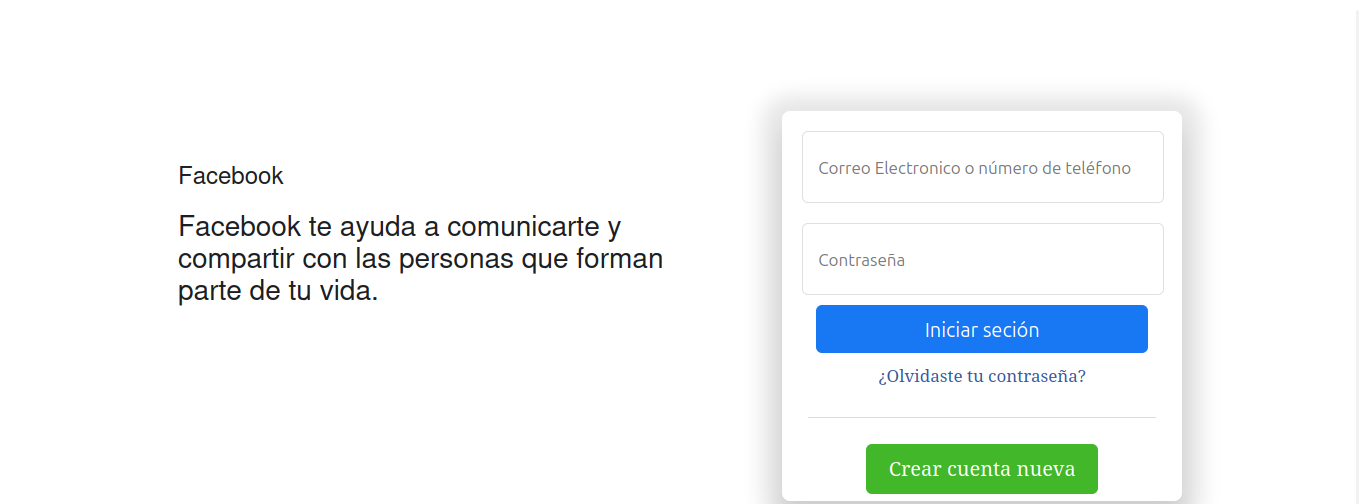
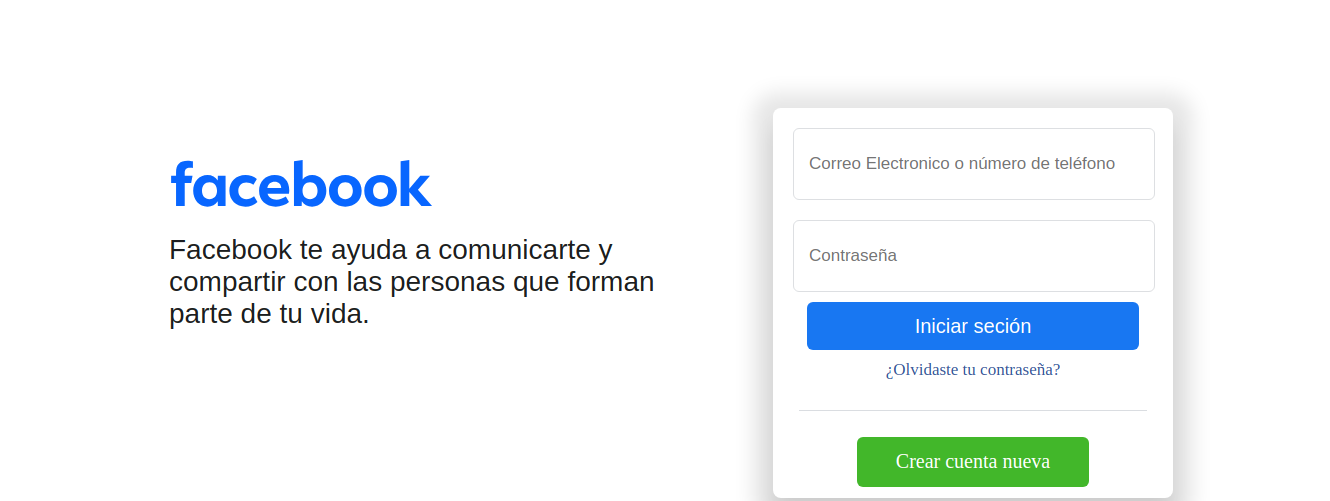
Version 1

diff --git a/Login/Formulario-1/index.html b/Login/Formulario-1/index.html
@@ -13,7 +13,7 @@
 <div class="div-container">
   <div class="div-inicio">
 	<div class="Inicio">
-	      <img class="Logo" src="https://static.xx.fbcdn.net/rsrc.php/y8/r/dF5SId3UHWd.svg" alt="Facebook">
+	      <img class="Logo" src="https://static.xx.fbcdn.net/rsrc.php/y1/r/4lCu2zih0ca.svg" alt="Facebook">
 	      <h1 class="Texto">Facebook te ayuda a comunicarte y compartir con las personas que forman parte de tu vida.</h1>
 	</div>
 	<div class="contenedor">

diff --git a/Login/Formulario-1/estilo.css b/Login/Formulario-1/estilo.css
@@ -1,9 +1,6 @@
 img {
-	width: 300px;
 	height: 106px;
-	margin: 0px;
-	padding: 0px;
-	padding: 0px;
+	margin: -28px;
 }
 
 .Inicio {
